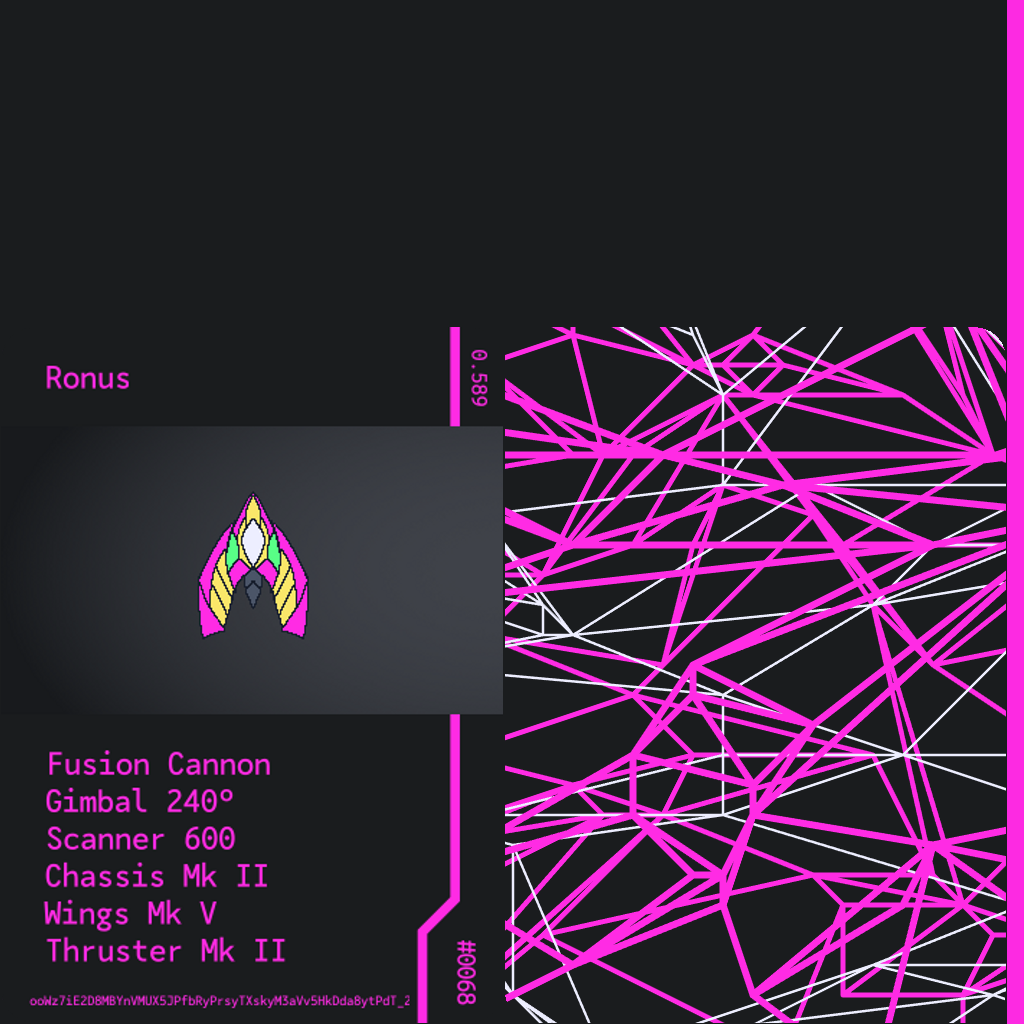
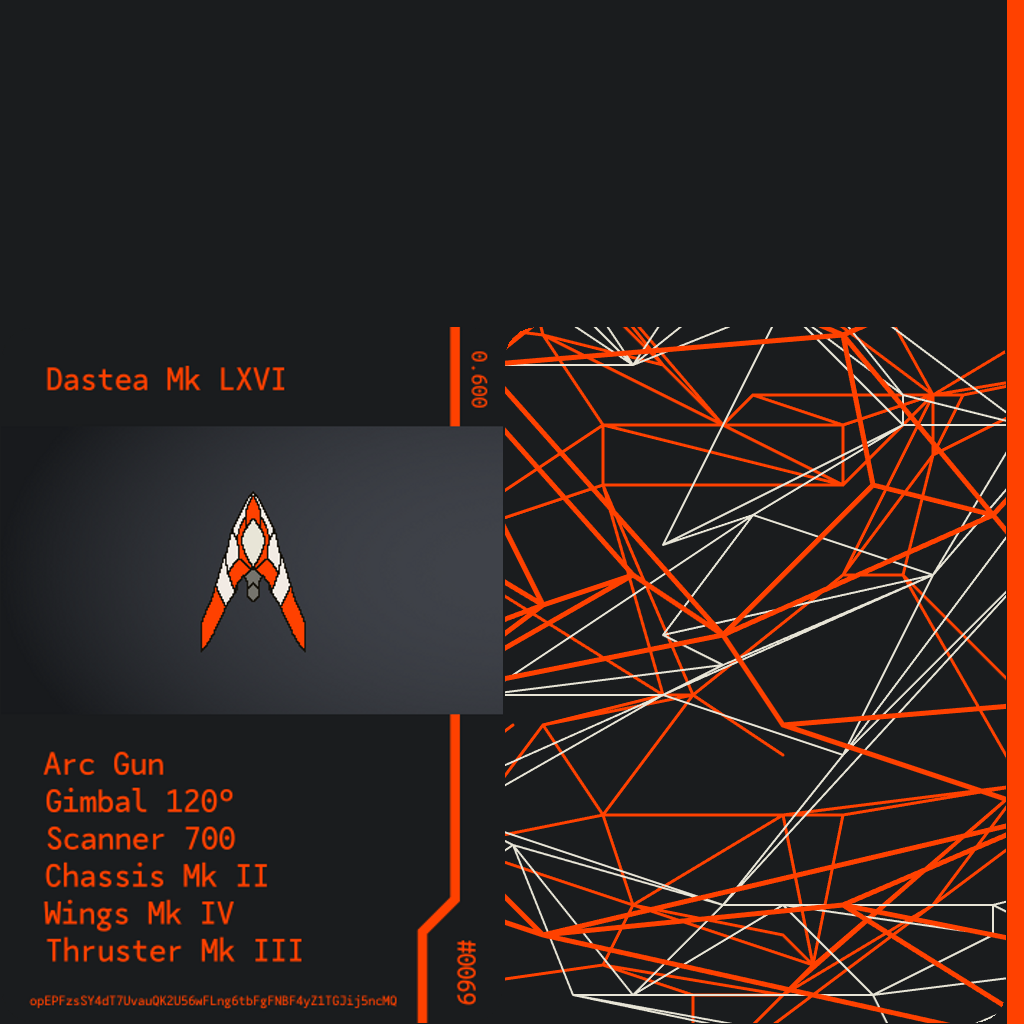
Latest

diff --git a/index.js b/index.js
@@ -688,9 +688,6 @@ const allSeeds = [
         walletId: 'tz1iaGYzLKTnatyN7UjimbKfYdUEwiG9xKM5',
         edition: 66
     },
-];
-
-const currentSeeds = [
     {
         seed: 'ooWz7iE2D8MBYnVMUX5JPfbRyPrsyTXskyM3aVv5HkDda8ytPdT',
         walletId: 'tz29tCQDFw8KwaMaBuroze6Sv2qd47nnP5Hv',
@@ -700,6 +697,14 @@ const currentSeeds = [
         seed: 'ooWz7iE2D8MBYnVMUX5JPfbRyPrsyTXskyM3aVv5HkDda8ytPdT_2',
         walletId: 'tz29tCQDFw8KwaMaBuroze6Sv2qd47nnP5Hv',
         edition: 68
+    },
+];
+
+const currentSeeds = [
+    {
+        seed: 'opEPFzsSY4dT7UvauQK2U56wFLng6tbFgFNBF4yZ1TGJij5ncMQ',
+        walletId: 'tz2LjW2Zw6VY8G5aaH7JUBN4XdYSF3mKqGh8',
+        edition: 69
     }
 ];
 
